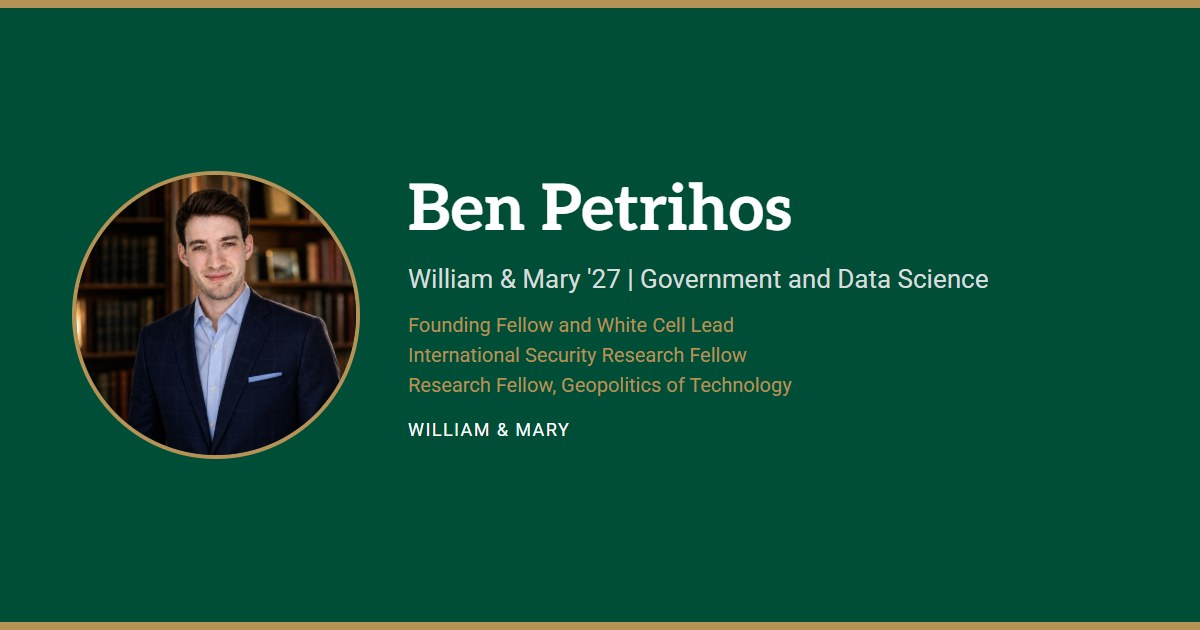
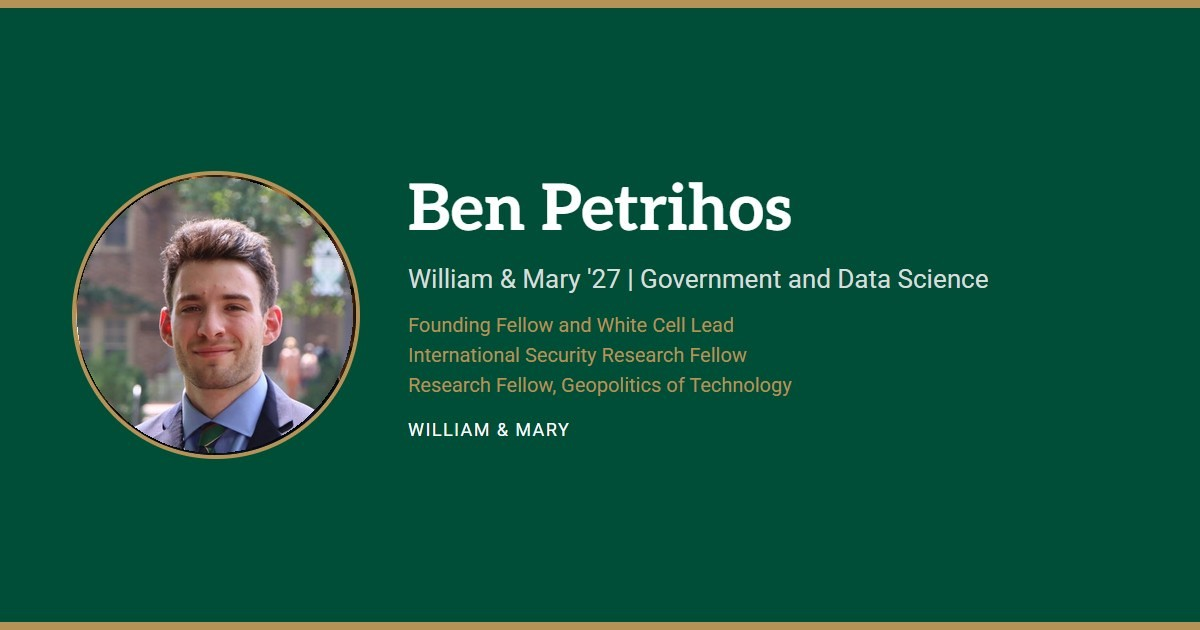
Use the outdoor portrait for the masthead headshot.

Changed region(s): [[0.0617, 0.2714, 0.3083, 0.7238]]

diff --git a/index.html b/index.html
@@ -95,7 +95,7 @@
       height: 132px;
       border-radius: 50%;
       object-fit: cover;
-      object-position: center 18%;
+      object-position: center center;
       border: 2px solid var(--gold);
       flex-shrink: 0;
     }
@@ -230,7 +230,7 @@
   <header class="masthead">
     <div class="masthead-inner">
       <div class="identity-row">
-        <img class="headshot" src="headshot.jpg" alt="Ben Petrihos" width="132" height="132">
+        <img class="headshot" src="headshot.jpg?v=2" alt="Ben Petrihos" width="132" height="132">
         <div class="identity">
           <h1>Ben Petrihos</h1>
           <p class="line">William &amp; Mary '27 | Government and Data Science</p>
